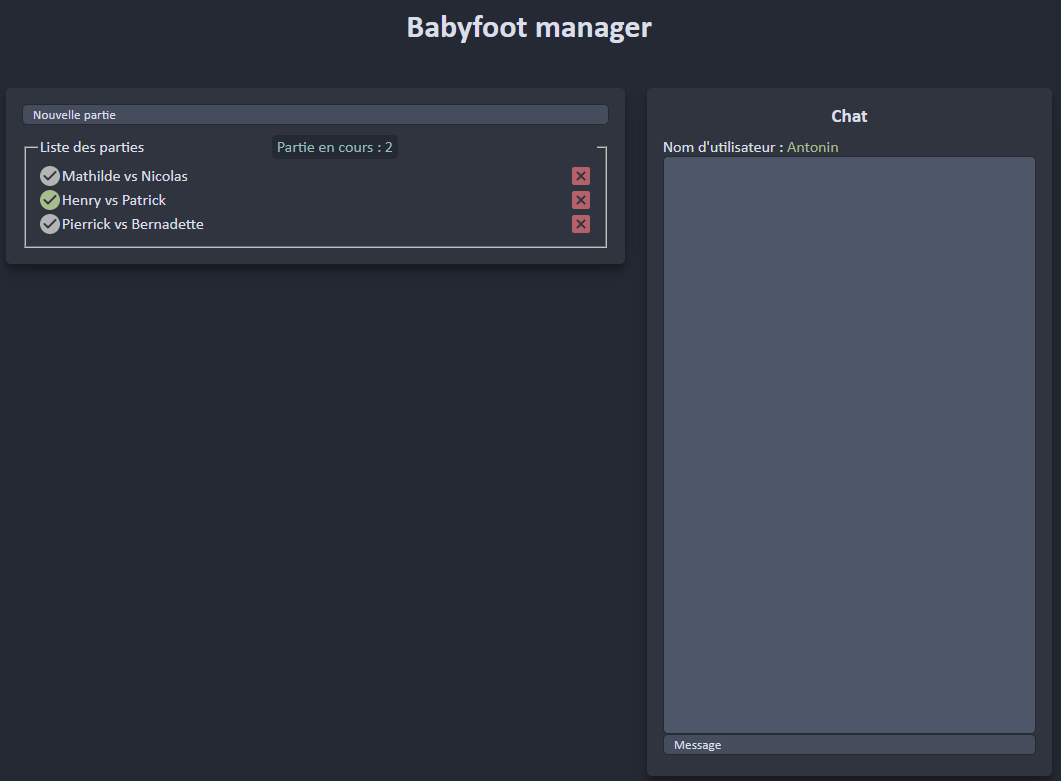
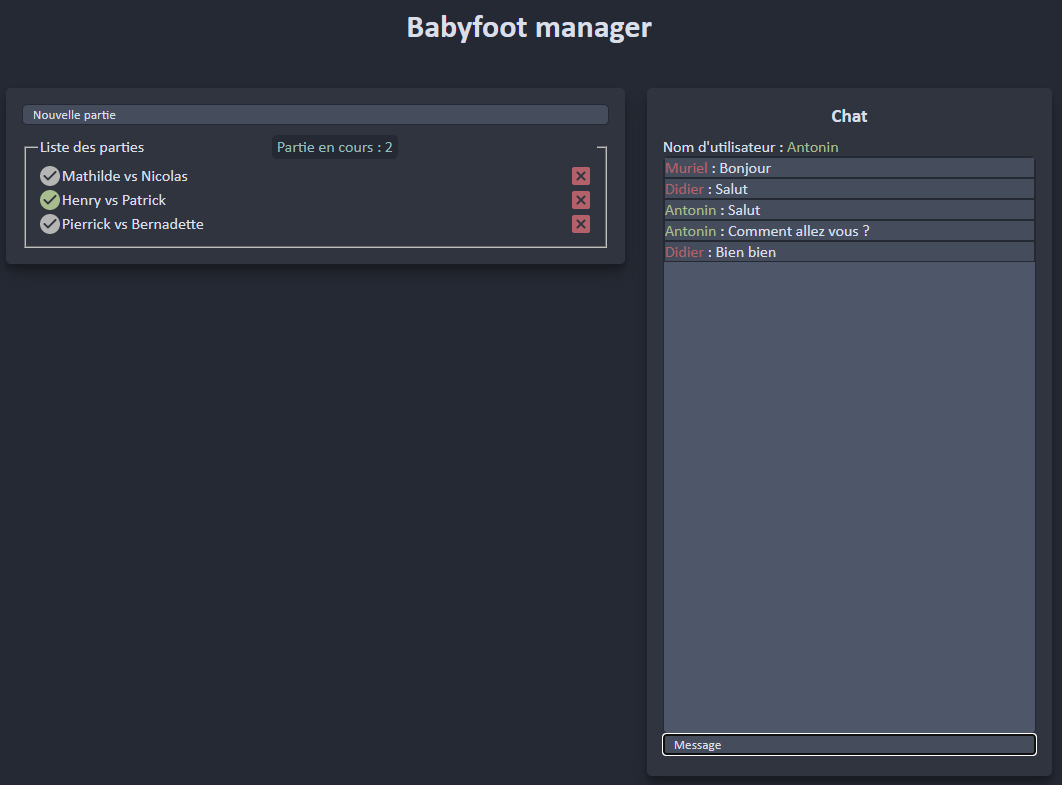
Mise à jour de la documentation utilisateur

diff --git a/README.md b/README.md
@@ -80,7 +80,33 @@ $ npm run start
 
 ![Page de garde](/docs/accueil.png)
 
+
+### Gestionnaire de partie de babyfoot
 La gestion des parties se retrouve sur la partie gauche de l'écran
 
 ![Partie](/docs/parties.png)
 
+Cet affichage se découpe en plusieurs blocs.
+
+Tout d'abord la boîte de texte qui permet de saisir le nom d'une partie et de l'ajouter à la liste lors de l'appui sur la touche entrée.
+
+La deuxième partie, qui se trouve en dessous, regroupe les parties sauvegardées. Il y a un compteur de partie en cours, et en dessous, une ligne par partie.
+
+Chaque ligne de partie a un bouton de chaque côté.
+
+Le bouton de gauche qui donne l'état de la partie, gris pour une partie en cours et vert pour une partie fini. Aux cliques sur le bouton, on change l'état de la partie.
+
+Le bouton de droite permet, quant à lui, de supprimer une partie après validation de la boîte de confirmation.
+
+### Chat
+
+![Chat](/docs/chat.png)
+
+La fenêtre de chat se trouve sur la gauche de l'écran.
+
+On peut changer de nom d'utilisateur en double cliquant sur le nom en vert en haut. Validez le changement de nom en appuyant sur la touche entrée.
+Le nouveau nom est envoyé aux autres utilisateurs et vos précédents messages sont mis à jour.
+
+Au centre se trouvent les messages envoyer par vous et les autres personnes connectées.
+
+En bas se trouve la boîte de texte qui permet de saisir les messages, ils sont envoyés à l'appui sur la touche entrée.
